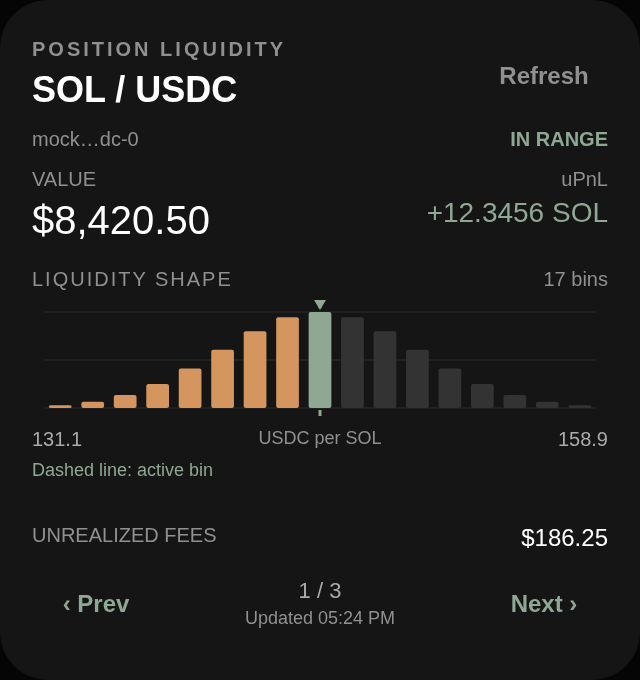
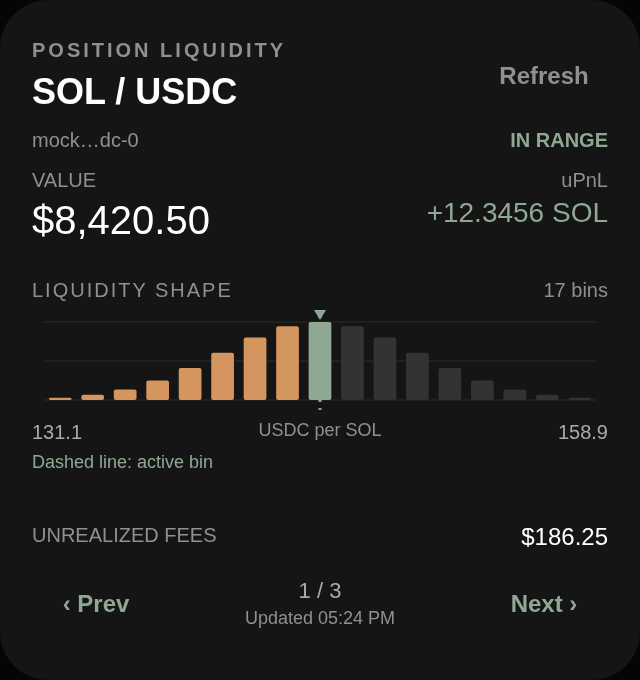
fix(widget): restore uPnL fetching and reduce graph height
Remove the obsolete Helius-key gate so public DLMM Data API PnL reaches positions and widgets without a separate Helius key. Reduce the liquidity graph height by about 15% and refresh the picker preview.

Validation: typecheck, lint, formatting, Android prebuild, and all 229 tests passed.

diff --git a/src/__tests__/services/positionPipeline.test.ts b/src/__tests__/services/positionPipeline.test.ts
@@ -2,6 +2,7 @@ import { afterEach, beforeEach, describe, expect, it, vi } from 'vitest'
 import type { PositionPnLData } from '../../services/dlmmApi'
 import { createPositionPipeline, type PositionPipeline } from '../../services/positionPipeline'
 import { CacheManager } from '../../utils/cache/CacheManager'
+import { toPositionWidgetData } from '../../widgets/positionWidgetData'
 
 // ─── Mocks ────────────────────────────────────────────────────────────
 
@@ -45,7 +46,7 @@ vi.mock('../../tokens', () => ({
 
 // Mock env
 vi.mock('../../config/env', () => ({
-  env: { rpcUrl: 'https://test.rpc', heliusApiKey: 'test-helius-key' },
+  env: { rpcUrl: 'https://test.rpc' },
 }))
 
 // Mock config/cache
@@ -209,7 +210,7 @@ describe('PositionPipeline', () => {
         fetchMock.mockResolvedValueOnce(pnlPage([{ ...MOCK_PNL_DATA, positionAddress: 'pos-addr-1' }]))
       }
 
-      pipeline = createPositionPipeline({ cache, heliusApiKey: 'test-key' })
+      pipeline = createPositionPipeline({ cache })
 
       const result = await pipeline.loadPortfolio('wallet1')
 
@@ -269,7 +270,7 @@ describe('PositionPipeline', () => {
       if (laterPage) fetchMock.mockResolvedValueOnce(pnlPage([MOCK_PNL_DATA], true))
       fetchMock.mockRejectedValue(new Error('API error'))
 
-      pipeline = createPositionPipeline({ cache, heliusApiKey: 'test-key' })
+      pipeline = createPositionPipeline({ cache })
 
       const result = await pipeline.loadPortfolio('wallet1')
 
@@ -319,7 +320,7 @@ describe('PositionPipeline', () => {
       const { fetchTokenFromRpc } = await import('../../tokens')
       vi.mocked(fetchTokenFromRpc).mockRejectedValue(new Error('RPC error'))
 
-      pipeline = createPositionPipeline({ cache, heliusApiKey: 'test-key' })
+      pipeline = createPositionPipeline({ cache })
 
       const result = await pipeline.loadPortfolio('wallet1')
 
@@ -331,7 +332,7 @@ describe('PositionPipeline', () => {
       expect(result.positions[0].vm.totalValue).toBe('$0.00')
     })
 
-    it('skips PnL requests when the legacy feature flag is disabled', async () => {
+    it('includes position widget uPnL without a Helius API key', async () => {
       const mockPosition = {
         publicKey: { toString: () => 'pos-pubkey', toBase58: () => 'pos-pubkey' },
         tokenX: { mint: { address: { toBase58: () => MOCK_TOKEN_X.mint } } },
@@ -364,12 +365,17 @@ describe('PositionPipeline', () => {
         .mockResolvedValueOnce(MOCK_TOKEN_X as any)
         .mockResolvedValueOnce(MOCK_TOKEN_Y as any)
 
-      pipeline = createPositionPipeline({ cache, heliusApiKey: '' })
+      pipeline = createPositionPipeline({ cache })
+      fetchMock.mockResolvedValueOnce(pnlPage([MOCK_PNL_DATA]))
 
       const result = await pipeline.loadPortfolio('wallet1')
 
-      expect(result.hasPnLData).toBe(false)
-      expect(fetchMock).not.toHaveBeenCalled()
+      expect(toPositionWidgetData(result)[0]).toMatchObject({
+        value: '$151.00',
+        pnlSol: 0.5,
+      })
+      expect(result.hasPnLData).toBe(true)
+      expect(fetchMock).toHaveBeenCalledTimes(1)
     })
   })
 
@@ -438,7 +444,7 @@ describe('PositionPipeline', () => {
 
       fetchMock.mockResolvedValueOnce(pnlPage([MOCK_PNL_DATA]))
 
-      pipeline = createPositionPipeline({ cache, heliusApiKey: 'test-key' })
+      pipeline = createPositionPipeline({ cache })
 
       const result = await pipeline.fetchPortfolioSummary('wallet1')
 
@@ -488,7 +494,7 @@ describe('PositionPipeline', () => {
       // PnL succeeds for pool1, fails for pool2
       fetchMock.mockResolvedValueOnce(pnlPage([MOCK_PNL_DATA])).mockRejectedValueOnce(new Error('Pool2 PnL failed'))
 
-      pipeline = createPositionPipeline({ cache, heliusApiKey: 'test-key' })
+      pipeline = createPositionPipeline({ cache })
 
       const result = await pipeline.fetchPortfolioSummary('wallet1')
 

diff --git a/src/services/positionPipeline.ts b/src/services/positionPipeline.ts
@@ -5,7 +5,6 @@ import type { Connection } from '@solana/web3.js'
 
 import { CACHE_TTL } from '../config/cache'
 import { getSharedConnection } from '../config/connection'
-import { env } from '../config/env'
 import type { TokenInfo } from '../tokens'
 import { CacheManager } from '../utils/cache/CacheManager'
 import { computePositionViewData, type PositionViewModel } from '../utils/positions/computePositionViewData'
@@ -71,8 +70,6 @@ export interface PipelineDeps {
   cache?: CacheManager
   /** Solana Connection — defaults to getSharedConnection() */
   connection?: Connection
-  /** Legacy PnL feature flag — defaults to env.heliusApiKey; an empty string disables PnL fetching. */
-  heliusApiKey?: string
   /** DataServices factory override — defaults to createDataServices(cache) */
   dataServices?: DataServices
 }
@@ -89,13 +86,11 @@ export class PositionPipeline {
   private readonly cache: CacheManager
   /** Resolved lazily — constructing the pipeline must not require an RPC URL (web mock mode) */
   private readonly injectedConnection: Connection | undefined
-  private readonly heliusApiKey: string | undefined
   private readonly dataServices: DataServices
 
   constructor(deps?: PipelineDeps) {
     this.cache = deps?.cache ?? CacheManager.getInstance()
     this.injectedConnection = deps?.connection
-    this.heliusApiKey = deps?.heliusApiKey ?? env.heliusApiKey
     this.dataServices = deps?.dataServices ?? createDataServices(this.cache)
   }
 
@@ -106,7 +101,8 @@ export class PositionPipeline {
   /**
    * Load all position data for a wallet.
    *
-   * Best-effort PnL: if heliusApiKey is missing or PnL fetch fails,
+   * Best-effort PnL from the public DLMM Data API, independent of RPC credentials.
+   * If every pool's PnL fetch fails,
    * positions still return with pnlSol/pnlSolPctChange = null and hasPnLData = false.
    */
   async loadPortfolio(walletAddress: string): Promise<PortfolioResult> {
@@ -206,10 +202,6 @@ export class PositionPipeline {
     poolAddresses: string[],
     walletAddress: string,
   ): Promise<Record<string, PositionPnLData[]>> {
-    if (!this.heliusApiKey) {
-      return {}
-    }
-
     const results: Record<string, PositionPnLData[]> = {}
 
     await Promise.allSettled(

diff --git a/src/widgets/PositionLiquidityWidget.tsx b/src/widgets/PositionLiquidityWidget.tsx
@@ -60,7 +60,8 @@ export default function PositionLiquidityWidget({
   message,
 }: PositionLiquidityWidgetProps): ReactElement {
   const chartWidth = Math.max(120, width - INSET * 2)
-  const chartHeight = Math.max(message ? 32 : 48, Math.min(160, height - 280 - (message ? 16 : 0)))
+  const baseChartHeight = Math.max(message ? 32 : 48, Math.min(160, height - 280 - (message ? 16 : 0)))
+  const chartHeight = Math.max(32, Math.round(baseChartHeight * 0.85))
   const graph = buildLiquidityGraph(position?.liquidityShape ?? null, chartWidth, chartHeight)
   const statusColor = position?.inRange ? C.primary : C.secondary
   const pnl = position?.pnlSol

diff --git a/src/__tests__/widgets/positionLiquidityWidget.test.tsx b/src/__tests__/widgets/positionLiquidityWidget.test.tsx
@@ -185,6 +185,7 @@ describe('position liquidity widget', () => {
     expect(visible()).toContain('SOL / USDC')
     expect(visible()).toContain('position-A')
     expect(visible()).toContain('$1,250.00')
+    expect(visible()).toContain('+0.2000 SOL')
     expect(visible()).toContain('IN RANGE')
     expect(visible()).toContain('1 / 3')
     expect(svg()).toContain('<rect')

diff --git a/docs/wiki/index.md b/docs/wiki/index.md
@@ -32,20 +32,20 @@ Content catalog for the yonksdotsol project wiki. Updated as pages are created o
 
 ## Components
 
-| Page                         | Description                                                     | Location                                                |
-| ---------------------------- | --------------------------------------------------------------- | ------------------------------------------------------- |
-| [[PortfolioSummary]]         | Portfolio PnL summary with SOL values                           | `src/components/positions/PortfolioSummary.tsx`         |
-| [[LiquidityBarChart]]        | SVG bar chart for liquidity distribution                        | `src/components/positions/LiquidityBarChart.tsx`        |
-| [[PositionLiquidityWidget]]  | Android widget with per-position navigation and liquidity graph | `src/widgets/PositionLiquidityWidget.tsx`               |
-| [[PositionCard]]             | Individual position display card                                | `src/components/positions/PositionCard.tsx`             |
-| [[PositionHeader]]           | Token pair, range badge, value header                           | `src/components/positions/PositionHeader.tsx`           |
-| [[PositionFooter]]           | Fee display footer                                              | `src/components/positions/PositionFooter.tsx`           |
-| [[TokenIcons]]               | Overlapping token icon pair                                     | `src/components/positions/TokenIcons.tsx`               |
-| [[EmptyState]]               | No positions empty state                                        | `src/components/positions/EmptyState.tsx`               |
-| [[PositionCardSkeleton]]     | Skeleton placeholder for PositionCard                           | `src/components/positions/PositionCardSkeleton.tsx`     |
-| [[PortfolioSummarySkeleton]] | Skeleton placeholder for PortfolioSummary                       | `src/components/positions/PortfolioSummarySkeleton.tsx` |
-| [[PixelAvatar]]              | Pixelated avatar component                                      | `src/components/ui/PixelAvatar.tsx`                     |
-| [[ShimmerBlock]]             | Skeleton loading animation                                      | `src/components/ui/ShimmerBlock.tsx`                    |
+| Page                         | Description                                                                | Location                                                |
+| ---------------------------- | -------------------------------------------------------------------------- | ------------------------------------------------------- |
+| [[PortfolioSummary]]         | Portfolio PnL summary with SOL values                                      | `src/components/positions/PortfolioSummary.tsx`         |
+| [[LiquidityBarChart]]        | SVG bar chart for liquidity distribution                                   | `src/components/positions/LiquidityBarChart.tsx`        |
+| [[PositionLiquidityWidget]]  | Android widget with per-position navigation, liquidity graph, and API uPnL | `src/widgets/PositionLiquidityWidget.tsx`               |
+| [[PositionCard]]             | Individual position display card                                           | `src/components/positions/PositionCard.tsx`             |
+| [[PositionHeader]]           | Token pair, range badge, value header                                      | `src/components/positions/PositionHeader.tsx`           |
+| [[PositionFooter]]           | Fee display footer                                                         | `src/components/positions/PositionFooter.tsx`           |
+| [[TokenIcons]]               | Overlapping token icon pair                                                | `src/components/positions/TokenIcons.tsx`               |
+| [[EmptyState]]               | No positions empty state                                                   | `src/components/positions/EmptyState.tsx`               |
+| [[PositionCardSkeleton]]     | Skeleton placeholder for PositionCard                                      | `src/components/positions/PositionCardSkeleton.tsx`     |
+| [[PortfolioSummarySkeleton]] | Skeleton placeholder for PortfolioSummary                                  | `src/components/positions/PortfolioSummarySkeleton.tsx` |
+| [[PixelAvatar]]              | Pixelated avatar component                                                 | `src/components/ui/PixelAvatar.tsx`                     |
+| [[ShimmerBlock]]             | Skeleton loading animation                                                 | `src/components/ui/ShimmerBlock.tsx`                    |
 
 ## Concepts
 

diff --git a/docs/wiki/entities/PositionLiquidityWidget.md b/docs/wiki/entities/PositionLiquidityWidget.md
@@ -29,6 +29,8 @@ The default footprint is 4 × 4 cells, with a 320dp minimum width and height. Bo
 
 `syncPositionWidgets.tsx` loads positions through `PositionPipeline.loadPortfolio`, including actual per-bin amounts. The SDK is imported lazily, and no position fetch runs when this widget type is absent. The portfolio summary continues to use server totals via [[DlmmApi]].
 
+Per-position uPnL comes from the public DLMM Data API and does not require a separate Helius API key. The SDK and token info still use the configured RPC endpoint (including its `getAsset` support). The pipeline no longer skips PnL when `EXPO_PUBLIC_HELIUS_API_KEY` is absent. API failures or missing SOL-denominated PnL still show `—`; value and unrealized fees alone cannot determine uPnL.
+
 `positionWidgetData.ts` projects the pipeline result into JSON-safe display data, retaining the actual position address instead of the pipeline's index-based row ID. Position order is stable by address. It does not persist SDK objects or BigInts.
 
 Snapshots and per-widget selections live in the `position-widget` MMKV instance, scoped to the persisted wallet address and connection revision. Empty results replace old positions. Disconnect clears obsolete snapshots; reconnecting the same wallet starts a new session. The request counter rejects old successes and failures. Navigation reads the latest snapshot at draw time, so a tap during refresh neither cancels the fetch nor loses the chosen position. The shared `renderWidgets` helper checks request ownership after Android's asynchronous widget lookup.

diff --git a/docs/wiki/log.md b/docs/wiki/log.md
@@ -135,3 +135,7 @@ Bound widget refresh snapshots to a wallet address and connection revision, clea
 ## [2026-09-09] feature | Position liquidity home-screen widget
 
 Added [[PositionLiquidityWidget]] as a separate Yonks Positions picker entry, with per-instance Previous/Next navigation, actual liquidity shapes, range status, value, uPnL, and unrealized fees. Snapshots and selections follow wallet revisions; refreshes reject stale responses and retain the graph on errors. Both widget types now share guarded native rendering. Added native-tree/behavior tests, a browser layout audit script, picker artwork, and documentation in DESIGN.md and [[Caching Strategy]].
+
+## [2026-09-09] fix | Position widget uPnL without a Helius key
+
+Removed the pipeline's obsolete Helius-key check, which silently skipped public DLMM Data API PnL requests and left [[PositionLiquidityWidget]] showing a value with missing uPnL. SDK and token-info requests still use the configured RPC endpoint. A pipeline-to-widget regression covers an API response with PnL and no Helius key; widget rendering asserts the SOL uPnL text. Updated [[index]] and the widget's data-path documentation.
